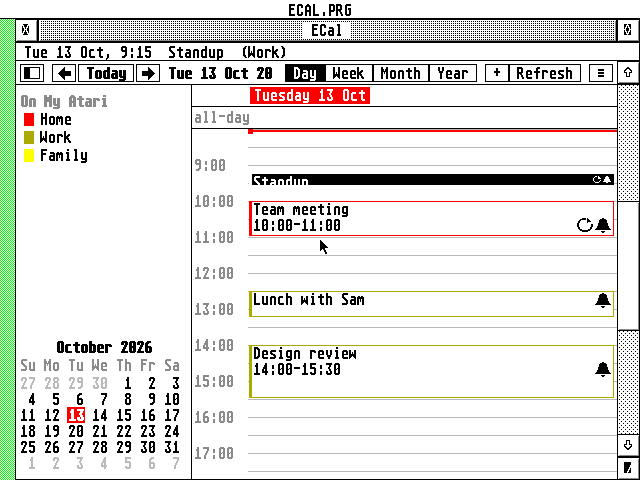
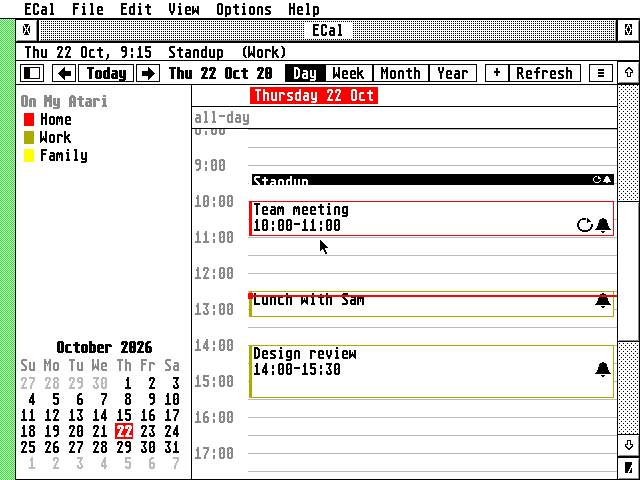
Docs: README, guide and pictures as ECal is now
- README and guide: the Pi's short way, every AERA gateway in one line
  (AERA-Gateway 1.8's update-pi.sh --allow), before the step-by-step
  one; invitations from EContact's contacts file too; the family's Font
  dialog; the same colours in 16 and 256; 305 unit checks; acc_files.py
  and font_acc.py in the Tests list.
- Guide: ALARMS.IDX in the folder list (in ECal's folder, not by the
  calendars); the INF's empty line after each setting (6.1).
- Pictures taken again with docs_shots.py, under EmuTOS: Settings with
  its Contacts section, the people in a new event from a contacts file
  (Add... without EContact now asks for an address), today's date.
  docs/help/WINDOW.IMG made again from week.png, and docs_shots.py
  --update now makes it.

Claude-Session: https://claude.ai/code/session_0156PNUbArH3DjVH1Z92BX6V

diff --git a/tests/hatari/docs_shots.py b/tests/hatari/docs_shots.py
@@ -6,11 +6,17 @@ events, Hebrew dates off and a New York clock:
 
     TZ=America/New_York tests/hatari/docs_shots.py WORK [--update]
 
-On the Falcon (16 colours) and an ST in mono. They land in WORK/*/shots; --update copies them into docs/.
+On the Falcon (16 colours) and an ST in mono, under EmuTOS (as anyone
+building ECal would take them). The people invited in new-event.png
+come from a contacts file as EContact writes it (Settings > Contacts).
+They land in WORK/*/shots; --update copies them into docs/ and makes
+docs/help/WINDOW.IMG, the help front page's picture, from week.png.
 """
 import argparse
 import os
+import re
 import shutil
+import subprocess
 import sys
 import time
 
@@ -20,6 +26,21 @@ import ui_tour  # noqa: E402
 
 ROOT = ui_tour.ROOT
 BIN = os.path.join(ROOT, "binary")
+os.environ["AERA_TOS"] = "emutos"
+
+
+def contacts(hd):
+    """EContact's CONTACTS.TXT in C:\\ECONTACT, and ECAL.INF reading it"""
+    os.makedirs(os.path.join(hd, "ECONTACT"))
+    with open(os.path.join(hd, "ECONTACT", "CONTACTS.TXT"), "w", newline="") as f:
+        f.write("; EContact's contacts\r\n"
+                "P\tAlex Morgan\talex.morgan@example.org\thome\r\n"
+                "P\tJo Lee\tjo@example.org\twork\r\n"
+                "P\tSam Taylor\tsam.taylor@example.net\twork\r\n")
+    inf = os.path.join(hd, "ECAL.INF")
+    t = re.sub(rb"\r\n(PEOPLEFILE|PEOPLEDIR)=[^\r\n]*", b"", open(inf, "rb").read())
+    t = t.replace(b"[OPTIONS]\r\n", b"[OPTIONS]\r\nPEOPLEFILE=1\r\nPEOPLEDIR=C:\\ECONTACT\r\n", 1)
+    open(inf, "wb").write(t)
 
 
 def program(work, machine, shots):
@@ -29,6 +50,7 @@ def program(work, machine, shots):
     os.makedirs(hd)
     shutil.copy(os.path.join(BIN, "ECAL.PRG"), os.path.join(hd, "ECAL.PRG"))
     ui_tour.seed(hd, english=True)
+    contacts(hd)
     r = Rig(work, machine)
     try:
         time.sleep(16)
@@ -51,15 +73,15 @@ def falcon_shots(r):
     r.key(SCAN["n"]); time.sleep(1.5)
     r.type("Coffee with Alex", pace=0.08)
     time.sleep(0.5)
-    for who in ("alex", "sam", "jo@example.org"):  # People: Add...
-        r.click(515, 125); time.sleep(1.2)
+    for who in ("alex", "sam", "jo"):     # People: Add..., the contacts file's
+        r.click(515, 125); time.sleep(6)
         r.type(who, pace=0.08)
-        r.key(K["RETURN"]); time.sleep(1.5)
+        time.sleep(2)
+        r.key(K["RETURN"]); time.sleep(4)
     r.click(170, 81); time.sleep(0.5)       # back to the title
     r.shot("new-event")
     r.key(K["ESC"]); time.sleep(1.5)
-    r.click(600, 73); time.sleep(1.5)       # the menu
-    r.click(460, 363); time.sleep(2)        # Settings...
+    r.key(SCAN[","], ctrl=True); time.sleep(2)     # Settings...
     r.shot("settings")
     r.key(K["ESC"]); time.sleep(1)
 
@@ -83,6 +105,16 @@ def main():
             print(os.path.join(d, f))
             if a.update:
                 shutil.copy(os.path.join(d, f), os.path.join(ROOT, "docs", f))
+    if a.update:
+        # numbered: 1 the calendar list, 2 the view buttons, 3 today's
+        # Team meeting (in today's column of the week), 4 the little month
+        wday = (time.localtime().tm_wday + 1) % 7
+        out = os.path.join(ROOT, "docs", "help", "WINDOW.IMG")
+        subprocess.check_call([sys.executable, os.path.join(ROOT, "common", "tools", "helpfront.py"), "thumb",
+                               os.path.join(ROOT, "docs", "week.png"), out, "16,18,600,396",
+                               "60,118", "404,73", "%d,215" % (275 + 52 * wday), "104,348"])
+        os.remove(os.path.splitext(out)[0] + ".png")
+        print(out)
 
 
 if __name__ == "__main__":

diff --git a/README.md b/README.md
@@ -16,13 +16,14 @@ CalDAV server.
 - **Hebrew** throughout: right-to-left text, the Israeli keyboard (F10), Hebrew dates and
   Hebrew-calendar repeats.
 - **Every repeat:** all of RFC 5545's rules, with "only this one" or "all future ones" edits.
-- **Invitations:** invite people by name from [EContact](https://github.com/whomper/EContact) or by
-  address; iCloud sends the invitations, and their answers are kept.
+- **Invitations:** invite people by name from [EContact](https://github.com/whomper/EContact) (or
+  its contacts file when it isn't loaded) or by address; iCloud sends the invitations, and their
+  answers are kept.
 - **Always to hand:** reminders over any program, time zones, and its own copy on disk, so it works
   offline.
 - **Makes the most of the machine:** TT RAM when there is some, GDOS fonts, hover tooltips.
 
-![ECal's month view on a Falcon (Hatari): October 2026 with the Home, Work and Family calendars in red, olive and yellow, today (the 13th) in red, and the calendar list and a small month on the left](docs/month.png)
+![ECal's month view on a Falcon (Hatari): October 2026 with the Home, Work and Family calendars in red, olive and yellow, today in red, and the calendar list and a small month on the left](docs/month.png)
 
 ## Getting started
 
@@ -48,7 +49,14 @@ file on its own, or all of them in `ECAL-x.y.zip`.
    **Use C:\ECAL** to have it make that one).
 3. On an ST or STE, set up the gateway on a Raspberry Pi from
    [AERA-Gateway](https://github.com/whomper/AERA-Gateway)'s own repository (see
-   [gateway/README.md](gateway/README.md)):
+   [gateway/README.md](gateway/README.md)). On a new Pi, every AERA gateway for your Atari in one
+   line, ECal's among them (e-mail's only with `--mail`):
+
+   ```
+   sudo apt install -y git && git clone https://github.com/whomper/AERA-Gateway ~/AERA-Gateway && ~/AERA-Gateway/update-pi.sh --allow ATARI_IP
+   ```
+
+   Or step by step, only ECal's:
 
    ```
    sudo apt install -y git                  (Raspberry Pi OS Lite only)
@@ -58,12 +66,12 @@ file on its own, or all of them in `ECAL-x.y.zip`.
    sudo gateway/aera-gateway install dav --allow ATARI_IP
    ```
 
-   `ATARI_IP` is the Atari's address (e.g. 192.168.1.x): only it may use the gateway. The last command
-   prints the address to type into ECal.
+   `ATARI_IP` is the Atari's address (e.g. 192.168.1.x): only it may use the gateway. Either way the
+   install prints the address to type into ECal.
    - To update it to AERA-Gateway's latest release: `cd ~/AERA-Gateway && ./update-pi.sh`.
    - To check it: `gateway/aera-gateway status` in that folder, or http://PI_IP:8180/ in a browser.
-4. Reboot and choose **ECal** in the Desk menu. Open **Settings...** (^, or the ≡ menu at the right of
-   the toolbar):
+4. Reboot and choose **ECal** in the Desk menu. Open **Settings...** (Control and comma, or the ≡ menu
+   at the right of the toolbar):
    - **Connection**: type the Pi's IP address (`PI_IP`, e.g. 192.168.1.x, not its name) and port 8180
      into **Pi gateway**; or, on a Falcon or TT, tick **Falcon mode**.
    - **Time zones**: set the zone the Atari's clock is in.
@@ -154,9 +162,9 @@ The gateway's own README, with its options and how to keep it private:
   Exchange), or invitations you declined.
 - **Find** (^F) through titles, places and notes.
 - **Tooltips**: rest the mouse on an event to see its title and times.
-- **Fonts**: the system font or any monospaced GDOS font (NVDI, SpeedoGDOS), picked in EMail's font
-  selector; twelve calendar colours. With NVDI the views draw several times faster than with TOS's own
-  VDI.
+- **Fonts**: the system font or any monospaced GDOS font (NVDI, SpeedoGDOS), picked in the family's
+  Font dialog; twelve calendar colours, the same in 16 and 256 colours. With NVDI the views draw
+  several times faster than with TOS's own VDI.
 - **The calendar list** hides with a toolbar button (or ⇧^S), leaving the window to the calendar.
 - **Offline**: ECal keeps a copy of everything on disk, so it opens at once, shows today before it
   syncs, and works offline (**Work offline** in the Options or ≡ menu, as in EMail).
@@ -254,7 +262,7 @@ docs/     the user guide (GUIDE.md, the source of ECAL.HYP) and its pictures
 ```
 make test                    # the core: dates, Hebrew dates, zones, iCalendar, repeats,
                              # repeat rules with all of RFC 5545's examples, XML, URLs
-                             # (287 checks); the fuzz inputs again (tests/fuzz/seeds,
+                             # (305 checks); the fuzz inputs again (tests/fuzz/seeds,
                              # and found/: what once broke a parser); the gateway's tests
 make fuzz                    # the CalDAV answers, iCalendar, repeat rules, XML and
                              # inflate from libFuzzer (clang), FUZZTIME seconds each
@@ -275,6 +283,13 @@ would from the Control Panel:
 
 ```
 tests/hatari/acc_test.py WORK [--machine M]       # as a desk accessory (Falcon)
+tests/hatari/acc_files.py WORK [--machine M] [--run quiet|sync|falcon]
+                                                  # the accessory's disk access, job by job,
+                                                  # from Hatari's GEMDOS trace (ST-1:mono)
+tests/hatari/font_acc.py WORK [--machine M] [--prg] [--font-id N]
+                                                  # a GDOS font chosen: the window redraws in
+                                                  # it, and opens again (Falcon; skipped
+                                                  # without a GDOS)
 tests/hatari/edit_test.py WORK [--machine M]      # add, Hebrew title, find, delete, one occurrence,
                                                   # custom repeats (Falcon; on an ST up to delete)
 tests/hatari/alarm_test.py WORK [--machine M]     # reminders from ALARMS.IDX at boot (Falcon)
@@ -313,7 +328,8 @@ tests/hatari/hypview_test.py WORK                 # the guide in EHypView's late
                                                   # help first): Falcon:16, Falcon:256, TT:mono
 tests/hatari/ui_tour.py WORK [--machine M]        # screenshots of every view (Falcon)
 TZ=America/New_York tests/hatari/docs_shots.py WORK --update
-                                                  # the screenshots in docs/ (Falcon:16, ST:mono)
+                                                  # the screenshots in docs/ (Falcon:16, ST:mono,
+                                                  # EmuTOS), and docs/help/WINDOW.IMG
 ```
 
 Which machines a change passes (the family's guidelines): the ECALST.ACC rigs on `ST` and `ST-1`, in

diff --git a/docs/GUIDE.md b/docs/GUIDE.md
@@ -23,6 +23,7 @@ F:\...\ECAL.APP\          ECal's folder, wherever you keep it (this one is an ex
     ECAL.PRG              the program, if you use it
     ECAL.KEY              the key the passwords in ECAL.INF are encrypted with
     CACHE\                a copy of every calendar
+    ALARMS.IDX            the coming reminders, for a quick start
     ECAL.FNT              which GDOS fonts are fixed-width (made by Font...)
     CACERT.PEM            Falcon mode: root certificates (copy them here)
     ROOTS.DAT             Falcon mode: the same, decoded ahead of time
@@ -124,7 +125,15 @@ settings. **OK** keeps the changes in all of them, **Cancel** none.
 - **Connection**: how ECal reaches the servers:
   - **Pi gateway**: the Pi's address (`PI_IP`) and port 8180. Any Atari
     can use it, and a Falcon can too, to save time. Set the Pi up from
-    AERA-Gateway's own repository, typing on the Pi:
+    AERA-Gateway's own repository, typing on the Pi. On a new Pi, every
+    AERA gateway for your Atari in one line, ECal's among them (e-mail's
+    only with `--mail`):
+
+    ```
+    sudo apt install -y git && git clone https://github.com/whomper/AERA-Gateway ~/AERA-Gateway && ~/AERA-Gateway/update-pi.sh --allow ATARI_IP
+    ```
+
+    Or step by step, only ECal's:
 
     ```
     sudo apt install -y git                  (Raspberry Pi OS Lite only)
@@ -429,7 +438,7 @@ its own switch too (subscriptions start with theirs off).
 
 The accessory doesn't have to be opened for its reminders, and it
 reminds from the moment the desktop is up: it keeps the next eight days'
-reminders in `ALARMS.IDX` next to its calendars, and at boot reads only
+reminders in `ALARMS.IDX` in its folder, and at boot reads only
 that. The calendars themselves it reads later, a minute after boot (or
 as **Read calendars** in Settings > Refresh says), or when you open it.
 It reads them a little at a time, between the moments the program in
@@ -520,7 +529,8 @@ they are.
 ## ECAL.INF
 
 The settings file explains itself, like EMail's: a note before each
-setting, `1` for on and `0` for off. It can be edited with any text
+setting and an empty line after it, so each reads as a paragraph of its
+own; `1` for on and `0` for off. It can be edited with any text
 editor while ECal isn't running (keys in any case, a note after a value
 with ` ;`). A password typed in there in plain text is encrypted with
 ECAL.KEY the next time ECal starts. ECal writes the file anew as
@@ -533,7 +543,7 @@ next time ECal saves its settings.
 
 `START=` near the top says when the accessory reads its calendars:
 `now`, `opened`, or a number of seconds after boot (60 at first).
-`ALARMS.IDX`, next to the calendars, is ECal's own copy of the coming
+`ALARMS.IDX`, in ECal's folder, is ECal's own copy of the coming
 reminders and of what they were made from; it can be deleted at any
 time, and is made again once the calendars are read.
 `SYNC_CLOSED=` is **Also with the window closed** (`1` at first; the
